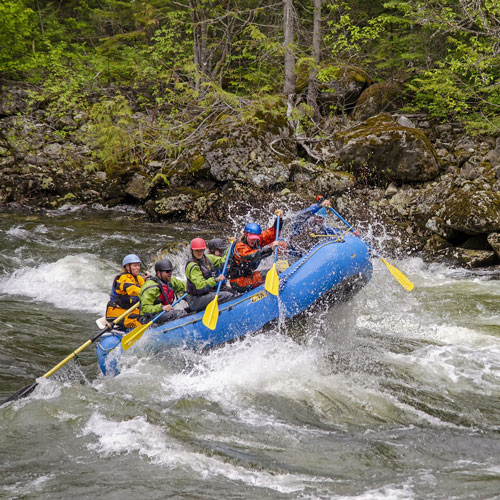
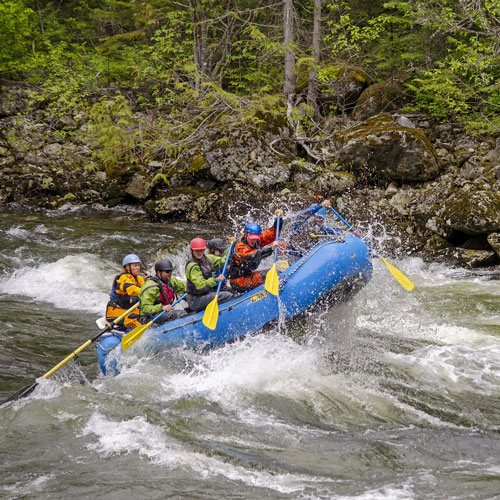
resizeimg

diff --git a/wwr/about.html b/wwr/about.html
@@ -26,7 +26,7 @@
     <main>
         <!-- Hero Section -->
         <div class="hero">
-            <img src="images/hero.png" alt="Rafting group enjoying the river">
+            <img src="images/rapids.jpg" alt="Rafting group enjoying the river">
             <h1>Dry Oar Rafting</h1>
             <article>
                 <img src="images/rapids.jpg" alt="Smiling rafters on the river">
